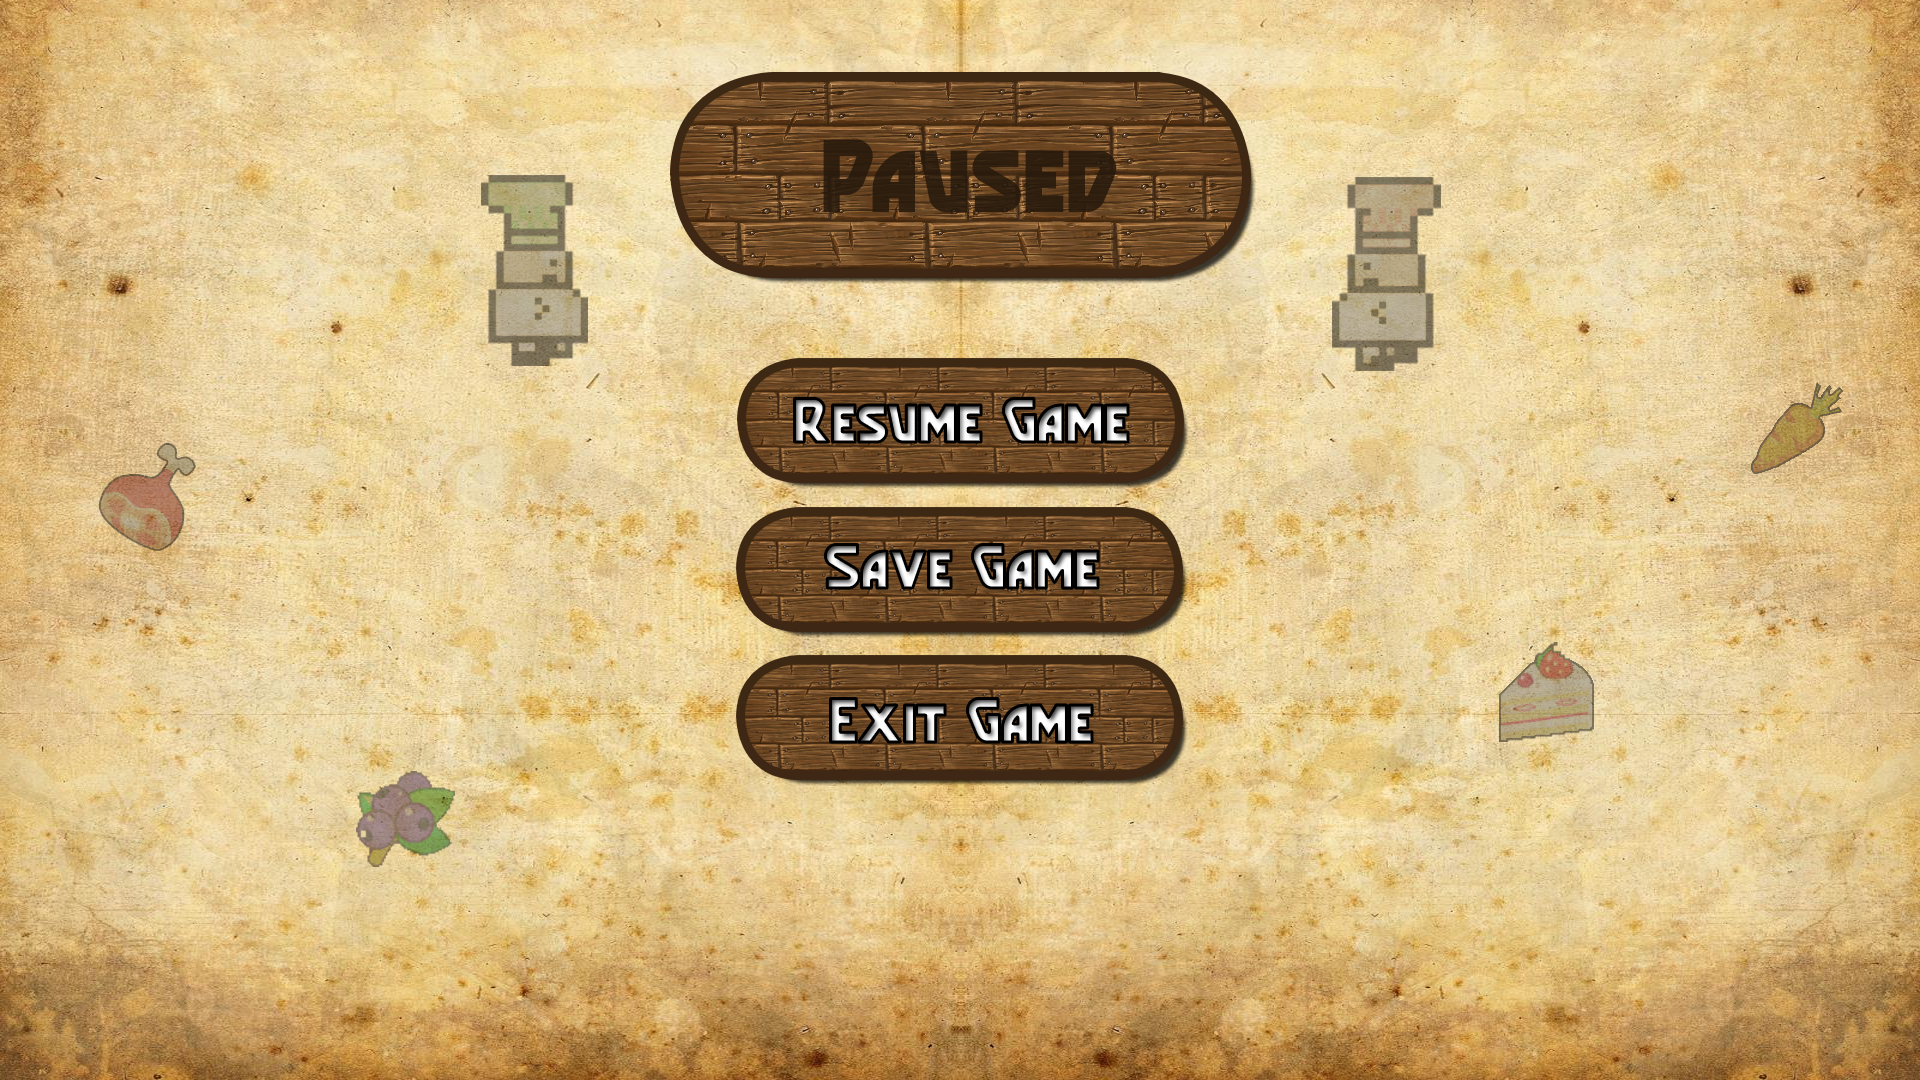
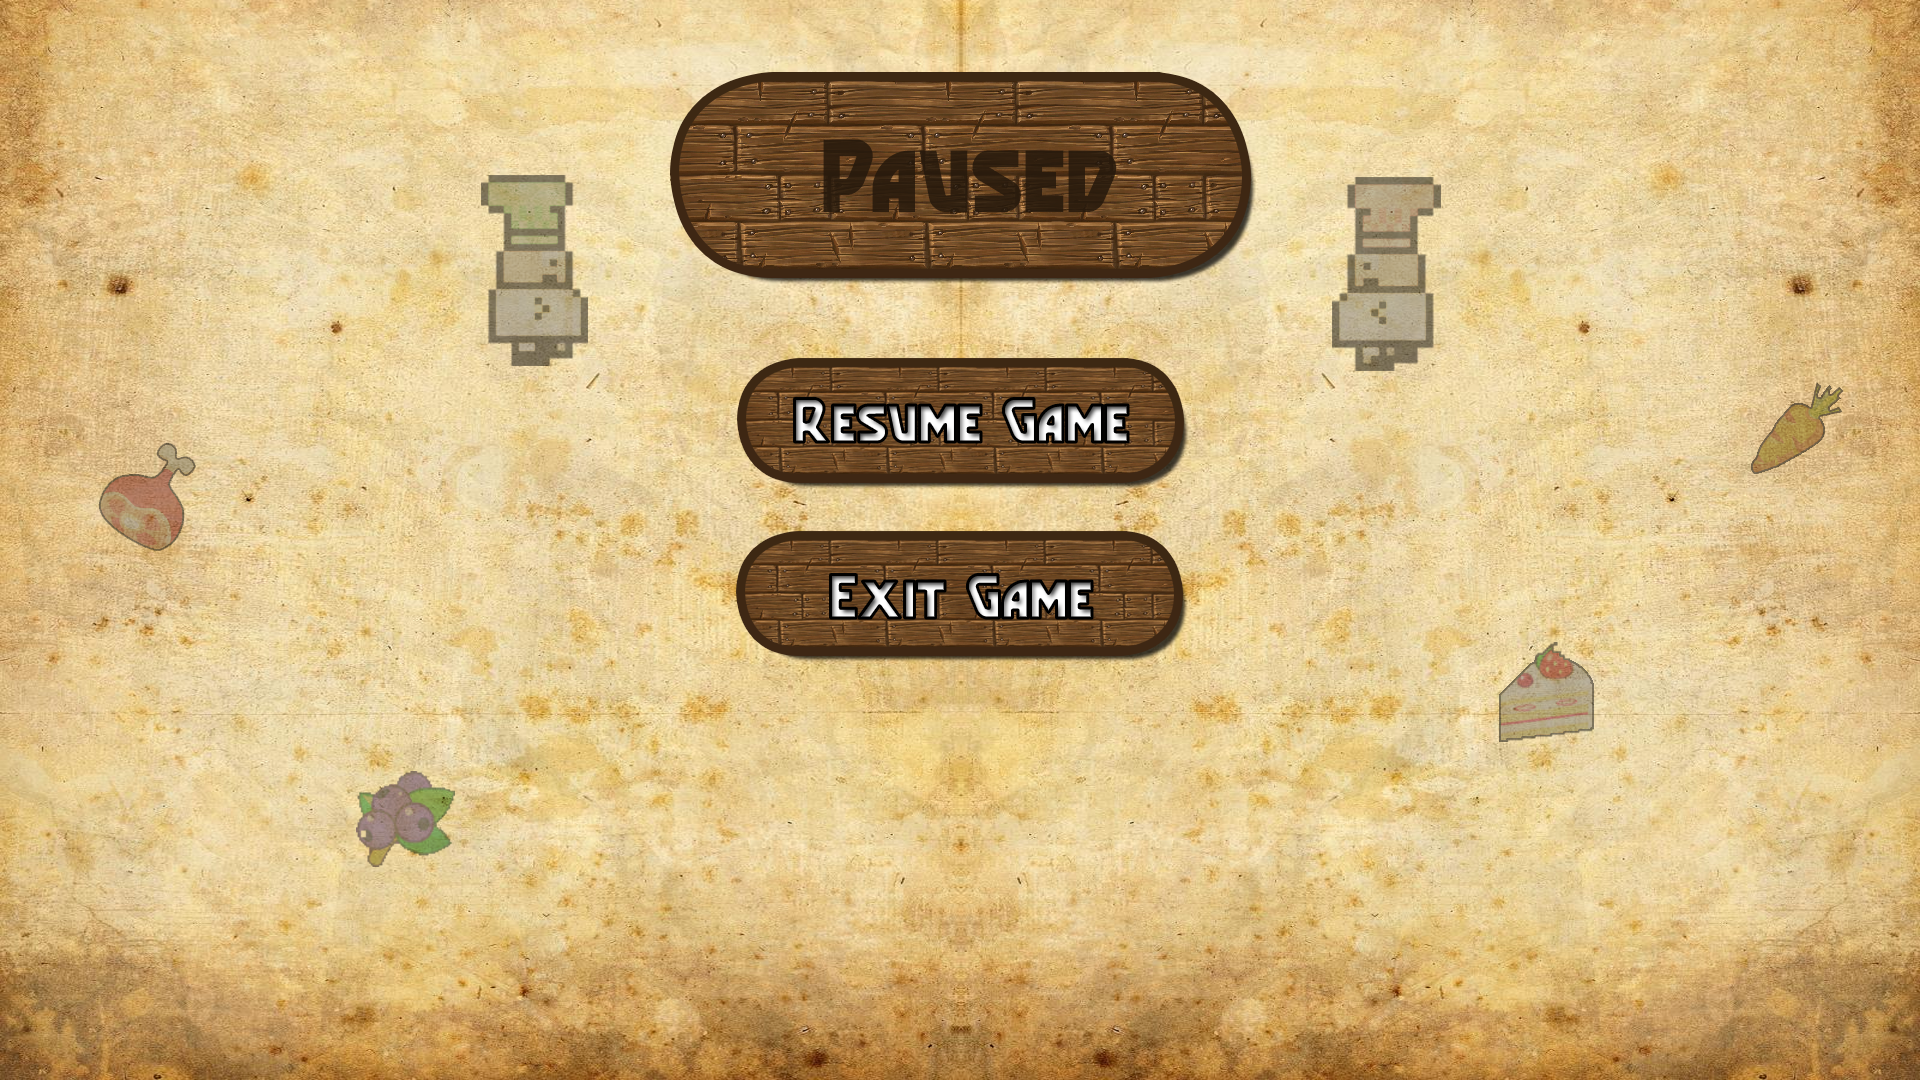
Pause Screen Fix

Changed region(s): [[0.375, 0.4583, 0.625, 0.7333]]

diff --git a/FoodWars/Sources/StateMachine/PauseScreen.cpp b/FoodWars/Sources/StateMachine/PauseScreen.cpp
@@ -15,19 +15,12 @@ PauseScreen::PauseScreen(ScreenStateManager& context) : IScreen(context) {
             },
             370, 110, 615, 300)->addToRender(&_renderList);
 
-    // Spel Opslaan
-    createShape<TextButton>(_inputFacade->getMouseEventObservable(),"",
-            [c = _context]() {
-                c->setActiveScreen<GameScreen>();
-            },
-            370, 110, 615, 420)->addToRender(&_renderList);
-
     // Terug naar hoofdmenu
     createShape<TextButton>(_inputFacade->getMouseEventObservable(),"",
             [c = _context]() {
                 c->setActiveScreen<MainMenuScreen>();
             },
-            370, 110, 615, 540)->addToRender(&_renderList);
+            370, 110, 615, 420)->addToRender(&_renderList);
 }
 
 PauseScreen::~PauseScreen() = default;
